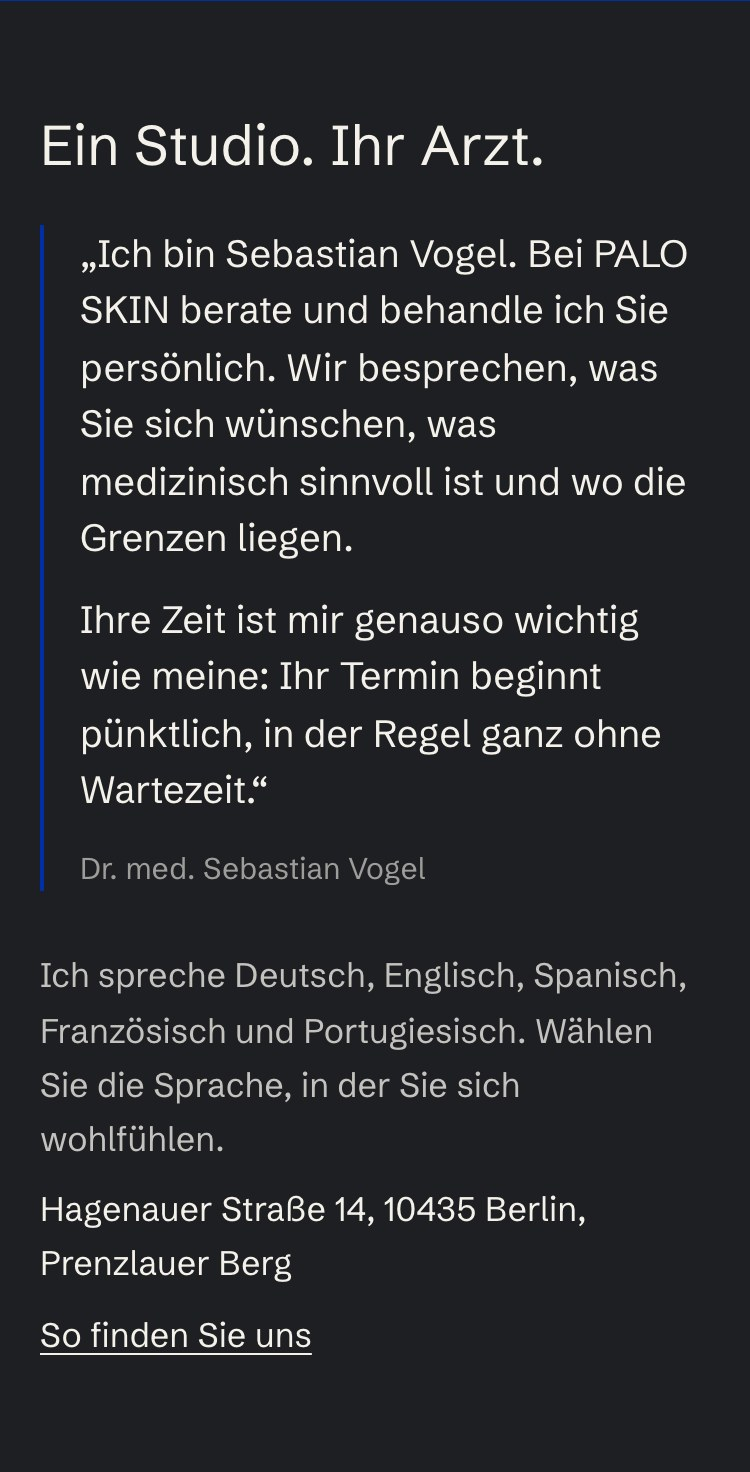
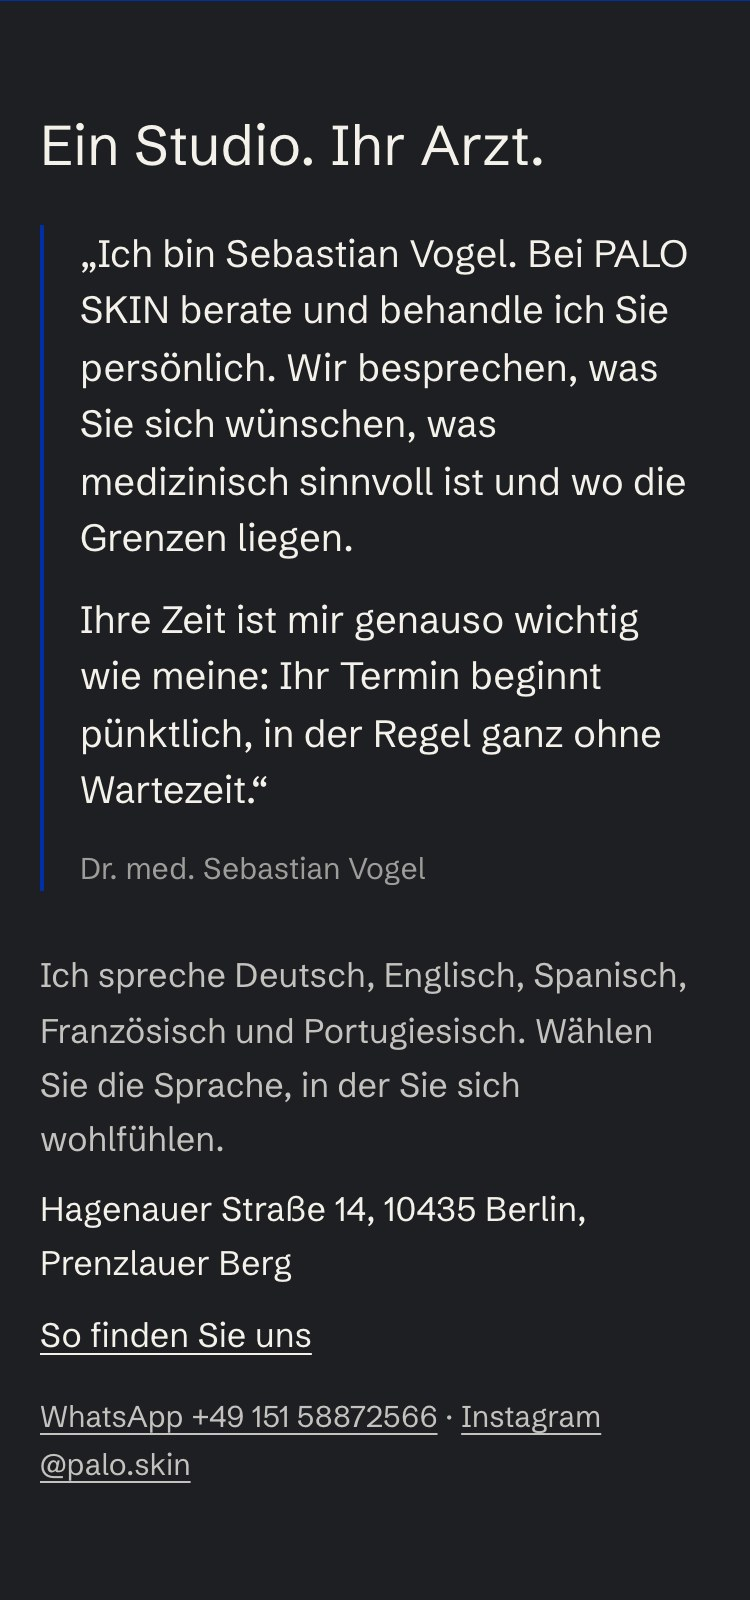
Startseite, Studio: Kontaktzeile WhatsApp und Instagram unter dem Kartenlink

diff --git a/public/index.html b/public/index.html
@@ -119,6 +119,7 @@
           <p class="muted" data-i18n="studioLangs">Ich spreche Deutsch, Englisch, Spanisch, Französisch und Portugiesisch. Wählen Sie die Sprache, in der Sie sich wohlfühlen.</p>
           <p data-i18n="studioAddr">Hagenauer Straße 14, 10435 Berlin, Prenzlauer Berg</p>
           <p><a href="https://maps.app.goo.gl/c3KoXo6d9YU5P2wy8" target="_blank" rel="noopener" data-i18n="mapL">So finden Sie uns</a></p>
+          <p class="contact"><a href="https://wa.me/4915158872566" target="_blank" rel="noopener">WhatsApp +49 151 58872566</a> · <a href="https://www.instagram.com/palo.skin" target="_blank" rel="noopener">Instagram @palo.skin</a></p>
         </div>
       </div>
     </div>

diff --git a/public/assets/site.css b/public/assets/site.css
@@ -138,6 +138,7 @@ p{margin:0}
 .studio .where{margin-top:28px}
 .studio .where p{margin-top:8px;font-size:17px}
 .studio .where a{text-decoration:underline;text-underline-offset:3px}
+.studio .where .contact{margin-top:16px;font-size:15px;color:rgba(244,241,234,.78)}
 .studio dl{display:grid;gap:16px;margin:0}
 @media (min-width:720px){.studio dl{grid-template-columns:1fr 1fr}}
 .studio dt{font-size:13px;letter-spacing:.02em;color:var(--ink-3);margin-bottom:3px}
